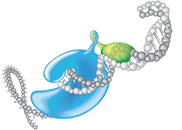
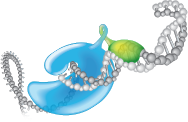
removed rotation from kidney

Changed region(s): [[0.0, 0.0, 1.0, 1.0]]

diff --git a/728x90/js/main.js b/728x90/js/main.js
@@ -1,1 +1,1 @@
-function playAd(){var stl=new TimelineLite;stl.from("#bradSvg1Container",15,{scale:1.5,x:-200,y:-190,rotationX:20,force3D:!0}).to("#bradSvg2Container",3,{rotationX:40,x:70,scale:.9,z:-300,force3D:!0},0).to("#bradSvg2Container",3,{rotationX:0,x:40,scale:1.2,z:-100,force3D:!0},3).to("#bradSvg2Container",3,{rotationX:-40,x:10,scale:.9,z:0,force3D:!0},6).to("#bradSvg2Container",3,{rotationX:0,x:-20},9).to("#bradSvg2Container",3,{opacity:0,scale:1.4,rotationX:-40,x:-50,ease:Power3.easeOut},12);var ttl=new TimelineLite;ttl.from("#bradT1",.8,{y:-50,opacity:0,ease:Power3.easeOut},0).to("#bradT1",.8,{y:-50,opacity:0,ease:Power3.easeOut},3).from("#bradT2",.8,{x:-80,opacity:0,ease:Power3.easeOut},"-=.4").to("#bradT2",.8,{x:80,opacity:0,ease:Power3.easeOut},"+=1").from("#bradT3",.8,{y:-80,opacity:0,ease:Power3.easeOut},"-=.4").from("#bradT4",.8,{x:80,opacity:0,ease:Power3.easeOut},"-=.6").to("#bradT3",.8,{y:-80,opacity:0,ease:Power3.easeOut},"+=1").to("#bradT4",.8,{x:80,opacity:0,ease:Power3.easeOut},"-=.6").from("#bradT5",.8,{y:-80,opacity:0,ease:Power3.easeOut},"-=.6").from("#bradT6",.8,{y:120,opacity:0,ease:Power3.easeOut},"-=.6").to("#bradT5",.8,{x:80,opacity:0,ease:Power3.easeOut},"+=1").to("#bradT6",.8,{x:80,opacity:0,ease:Power3.easeOut},"-=.8").from("#bradT7",.8,{x:-80,opacity:0,ease:Power3.easeOut},"-=.6").to("#bradT7",.8,{x:80,opacity:0,ease:Power3.easeOut},"+=1").from("#bradT8",.8,{y:-80,opacity:0,ease:Power3.easeOut},"-=.6").from("#bradT9",.8,{y:-80,opacity:0,ease:Power3.easeOut},"-=.8");var ctl=new TimelineLite;ctl.from("#bradKidney",3,{opacity:0,scale:0,x:-20,ease:Power2.easeOut}).from("#bradFlare",1.5,{x:-320,opacity:0,ease:Power3.easeOut},"-=1.6").from("#bradCtaContainer",.8,{clip:"rect(0px 0px 182px 0px)",opacity:0,ease:Power3.easeOut},"-=1.4").from("#bradCta",.8,{opacity:0,ease:Power3.easeOut},"-=.6").from("#bradKidneyFlare",1.5,{opacity:0,ease:Power3.easeOut},"-=.6"),tl.add(stl,0).add(ttl,0).add(ctl,11.5),tl.totalDuration(15)}function addListeners(){}function animationComplete(evt){}function updateSlider(){$("#slider").slider("value",100*tl.progress())}$("#play").click(function(){1!=tl.progress()?tl.play():tl.restart()}),$("#pause").click(function(){tl.pause()}),$("#restart").click(function(){tl.restart()}),$("#slider").slider({range:!1,min:0,max:100,step:.1,slide:function(event,ui){tl.pause(),tl.progress(ui.value/100)}}),$(document).ready(function(){TweenLite.set("#bradContainer",{opacity:1}),TweenLite.set("#bradSvg1Container",{scale:.7,x:200,y:-200,opacity:.8}),TweenLite.set("#bradSvg2Container",{scale:.6,rotation:180,x:100,y:-180,opacity:.8}),TweenLite.set("#bradKidney",{rotation:7}),addListeners(),playAd()});var tl=new TimelineLite({onUpdate:updateSlider});tl.eventCallback("onComplete",animationComplete);
+function playAd(){var stl=new TimelineLite;stl.from("#bradSvg1Container",15,{scale:1.5,x:-200,y:-190,rotationX:20,force3D:!0}).to("#bradSvg2Container",3,{rotationX:40,x:70,scale:.9,z:-300,force3D:!0},0).to("#bradSvg2Container",3,{rotationX:0,x:40,scale:1.2,z:-100,force3D:!0},3).to("#bradSvg2Container",3,{rotationX:-40,x:10,scale:.9,z:0,force3D:!0},6).to("#bradSvg2Container",3,{rotationX:0,x:-20},9).to("#bradSvg2Container",3,{opacity:0,scale:1.4,rotationX:-40,x:-50,ease:Power3.easeOut},12);var ttl=new TimelineLite;ttl.from("#bradT1",.8,{y:-50,opacity:0,ease:Power3.easeOut},0).to("#bradT1",.8,{y:-50,opacity:0,ease:Power3.easeOut},3).from("#bradT2",.8,{x:-80,opacity:0,ease:Power3.easeOut},"-=.4").to("#bradT2",.8,{x:80,opacity:0,ease:Power3.easeOut},"+=1").from("#bradT3",.8,{y:-80,opacity:0,ease:Power3.easeOut},"-=.4").from("#bradT4",.8,{x:80,opacity:0,ease:Power3.easeOut},"-=.6").to("#bradT3",.8,{y:-80,opacity:0,ease:Power3.easeOut},"+=1").to("#bradT4",.8,{x:80,opacity:0,ease:Power3.easeOut},"-=.6").from("#bradT5",.8,{y:-80,opacity:0,ease:Power3.easeOut},"-=.6").from("#bradT6",.8,{y:120,opacity:0,ease:Power3.easeOut},"-=.6").to("#bradT5",.8,{x:80,opacity:0,ease:Power3.easeOut},"+=1").to("#bradT6",.8,{x:80,opacity:0,ease:Power3.easeOut},"-=.8").from("#bradT7",.8,{x:-80,opacity:0,ease:Power3.easeOut},"-=.6").to("#bradT7",.8,{x:80,opacity:0,ease:Power3.easeOut},"+=1").from("#bradT8",.8,{y:-80,opacity:0,ease:Power3.easeOut},"-=.6").from("#bradT9",.8,{y:-80,opacity:0,ease:Power3.easeOut},"-=.8");var ctl=new TimelineLite;ctl.from("#bradKidney",3,{opacity:0,scale:0,x:-20,ease:Power2.easeOut}).from("#bradFlare",1.5,{x:-320,opacity:0,ease:Power3.easeOut},"-=1.6").from("#bradCtaContainer",.8,{clip:"rect(0px 0px 182px 0px)",opacity:0,ease:Power3.easeOut},"-=1.4").from("#bradCta",.8,{opacity:0,ease:Power3.easeOut},"-=.6").from("#bradKidneyFlare",1.5,{opacity:0,ease:Power3.easeOut},"-=.6"),tl.add(stl,0).add(ttl,0).add(ctl,11.5),tl.totalDuration(15)}function addListeners(){}function animationComplete(evt){}function updateSlider(){$("#slider").slider("value",100*tl.progress())}$("#play").click(function(){1!=tl.progress()?tl.play():tl.restart()}),$("#pause").click(function(){tl.pause()}),$("#restart").click(function(){tl.restart()}),$("#slider").slider({range:!1,min:0,max:100,step:.1,slide:function(event,ui){tl.pause(),tl.progress(ui.value/100)}}),$(document).ready(function(){TweenLite.set("#bradContainer",{opacity:1}),TweenLite.set("#bradSvg1Container",{scale:.7,x:200,y:-200,opacity:.8}),TweenLite.set("#bradSvg2Container",{scale:.6,rotation:180,x:100,y:-180,opacity:.8}),addListeners(),playAd()});var tl=new TimelineLite({onUpdate:updateSlider});tl.eventCallback("onComplete",animationComplete);

diff --git a/728x90/css/styles.css b/728x90/css/styles.css
@@ -153,10 +153,10 @@ article, aside, details, figcaption, figure, footer, header, hgroup, main, menu,
     background-image: url(../img/flare.png); }
   #bradContainer #bradContent #bradKidney {
     position: absolute;
-    width: 182px;
-    height: 130px;
-    top: -35px;
-    left: 332px;
+    width: 188px;
+    height: 122px;
+    top: -26px;
+    left: 322px;
     background-image: url(../img/kidney_no_glow.png); }
   #bradContainer #bradContent #bradKidneyFlare {
     position: absolute;

diff --git a/728x90/index.html b/728x90/index.html
@@ -29,12 +29,13 @@
             <div id="bradT6"></div>
             <div id="bradT7"></div>
             <div id="bradT8"></div>
-            <div id="bradT9"></div>
-            <div id="bradT10"></div>
+            
 
             <div id="bradFlare"></div>
             <div id="bradKidneyFlare"></div>
             <div id="bradKidney"></div>
+            
+            <div id="bradT9"></div>
             
             <div id="bradCtaContainer">
                 <div id="bradCta"></div>

diff --git a/728x90/_/components/js/main.js b/728x90/_/components/js/main.js
@@ -92,7 +92,7 @@ $(document).ready(function(){
     TweenLite.set("#bradContainer", {opacity:1});
     TweenLite.set('#bradSvg1Container', {scale:.7, x:200, y:-200, opacity:.8});
     TweenLite.set("#bradSvg2Container", { scale:.6, rotation:180, x:100, y:-180, opacity:.8});
-    TweenLite.set("#bradKidney", { rotation:7});
+    //TweenLite.set("#bradKidney", { rotation:7});
     addListeners();
     playAd();
 });

diff --git a/728x90/_/components/sass/_adstyles.scss b/728x90/_/components/sass/_adstyles.scss
@@ -131,10 +131,10 @@
         }
         #bradKidney{
             position:absolute;
-            width:182px;
-            height:130px;
-            top:-35px;
-            left:332px;
+            width:188px;
+            height:122px;
+            top:-26px;
+            left:322px;
             background-image: url(../img/kidney_no_glow.png);
         }
         #bradKidneyFlare{
